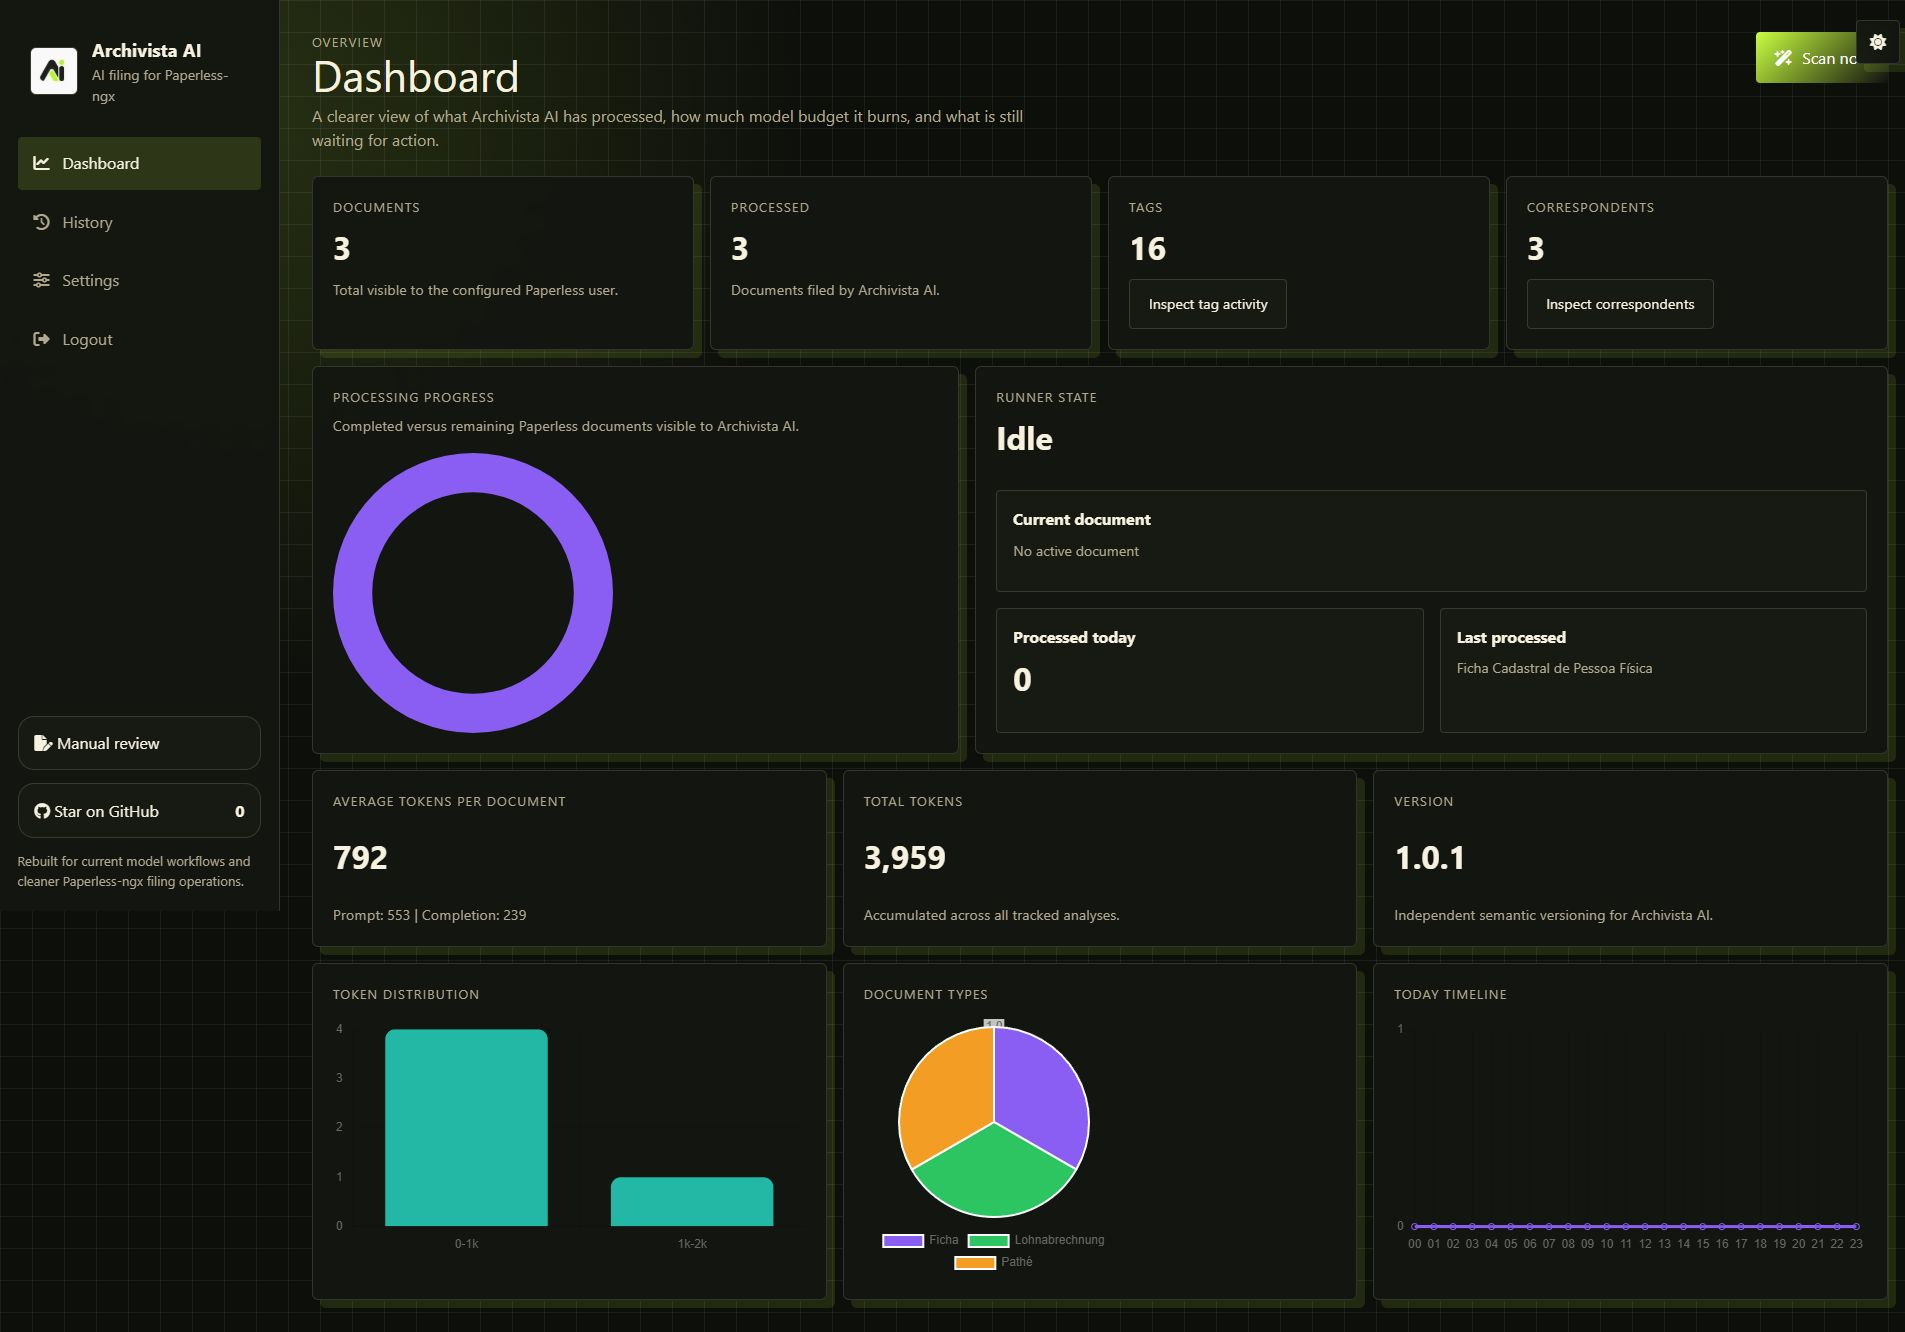
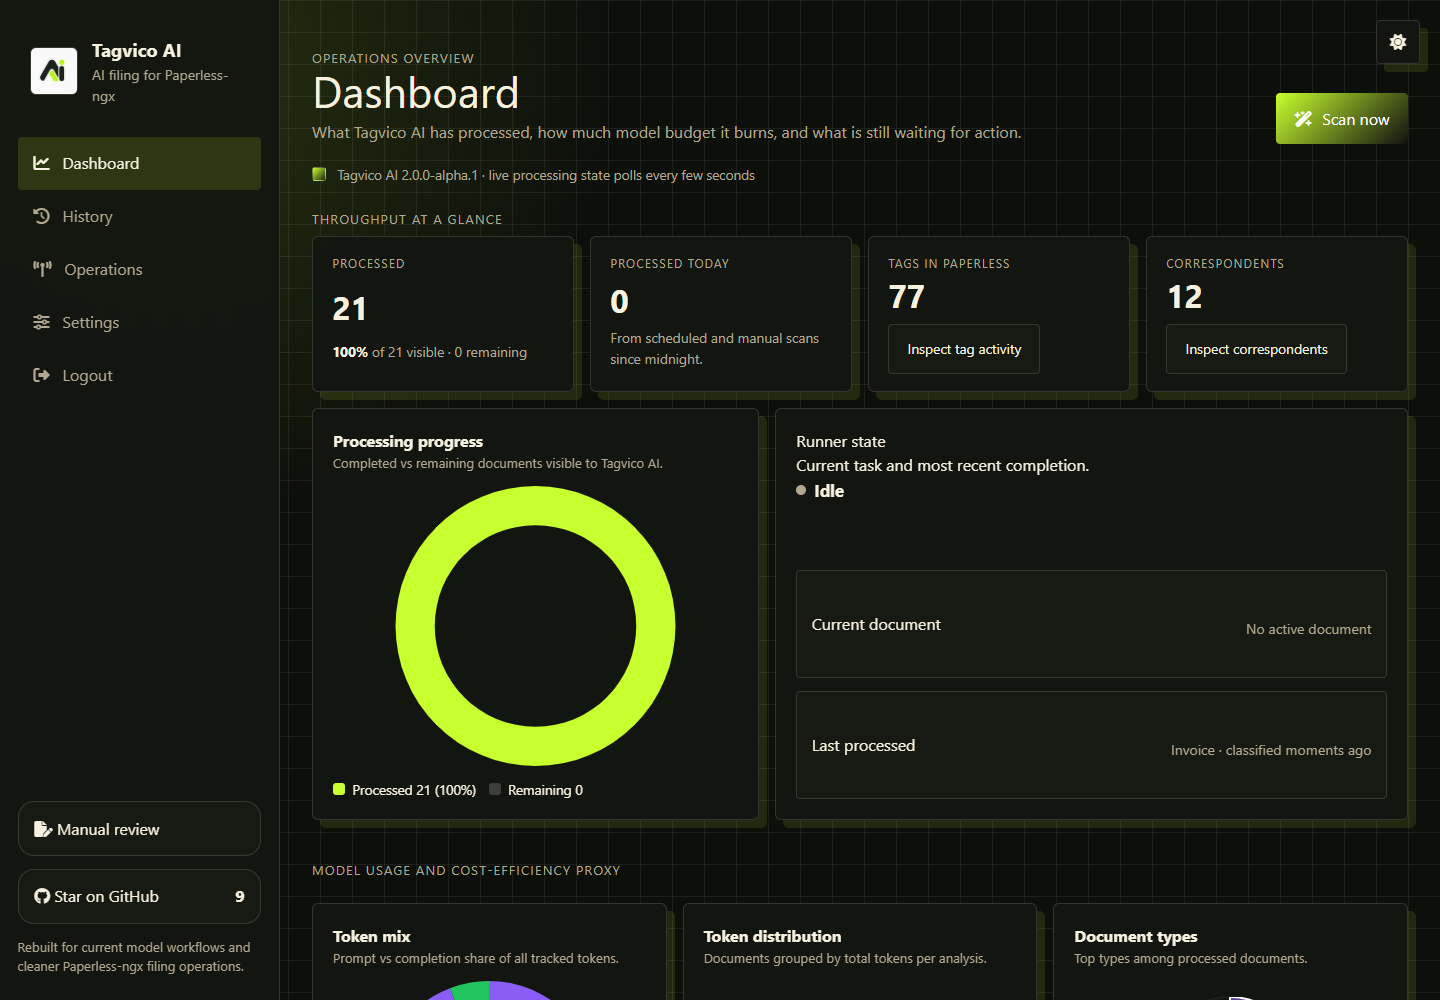
docs: add polished v2 product screenshots

diff --git a/README.md b/README.md
@@ -22,6 +22,28 @@ Self-hosted AI filing for [Paperless-ngx](https://docs.paperless-ngx.com/): turn
 - **Operationally hardened** — optional MFA, rate limits, same-origin mutation checks, protected setup, and generated JWT secrets.
 - **Clear privacy boundaries** — keep processing on your network with a local endpoint, or explicitly choose a hosted provider.
 
+## See v2 in action
+
+The interface keeps the important decisions visible: what has been processed,
+which account-scoped model is active, and which vocabulary the model may use.
+
+<table>
+  <tr>
+    <td width="50%">
+      <img src="docs/screenshots/chatgpt-models.png" alt="ChatGPT subscription model picker showing GPT-5.6 Luna and seven account-scoped models">
+      <br><strong>Use the subscription you already have.</strong><br>
+      Device-code sign-in, live model discovery, and no ChatGPT token exposed to the browser.
+    </td>
+    <td width="50%">
+      <img src="docs/screenshots/controlled-tagging.png" alt="Controlled Tag Groups in Tagvico AI settings">
+      <br><strong>Keep the archive vocabulary coherent.</strong><br>
+      Tag Groups constrain suggestions instead of allowing near-duplicate labels to accumulate.
+    </td>
+  </tr>
+</table>
+
+<p align="center"><em>Real screens from Tagvico AI v2. Live document names were replaced in the dashboard capture for privacy.</em></p>
+
 ## Quick start (about 2 minutes)
 
 You need Docker Compose, a running Paperless-ngx instance, and a Paperless API token. No source checkout is required.